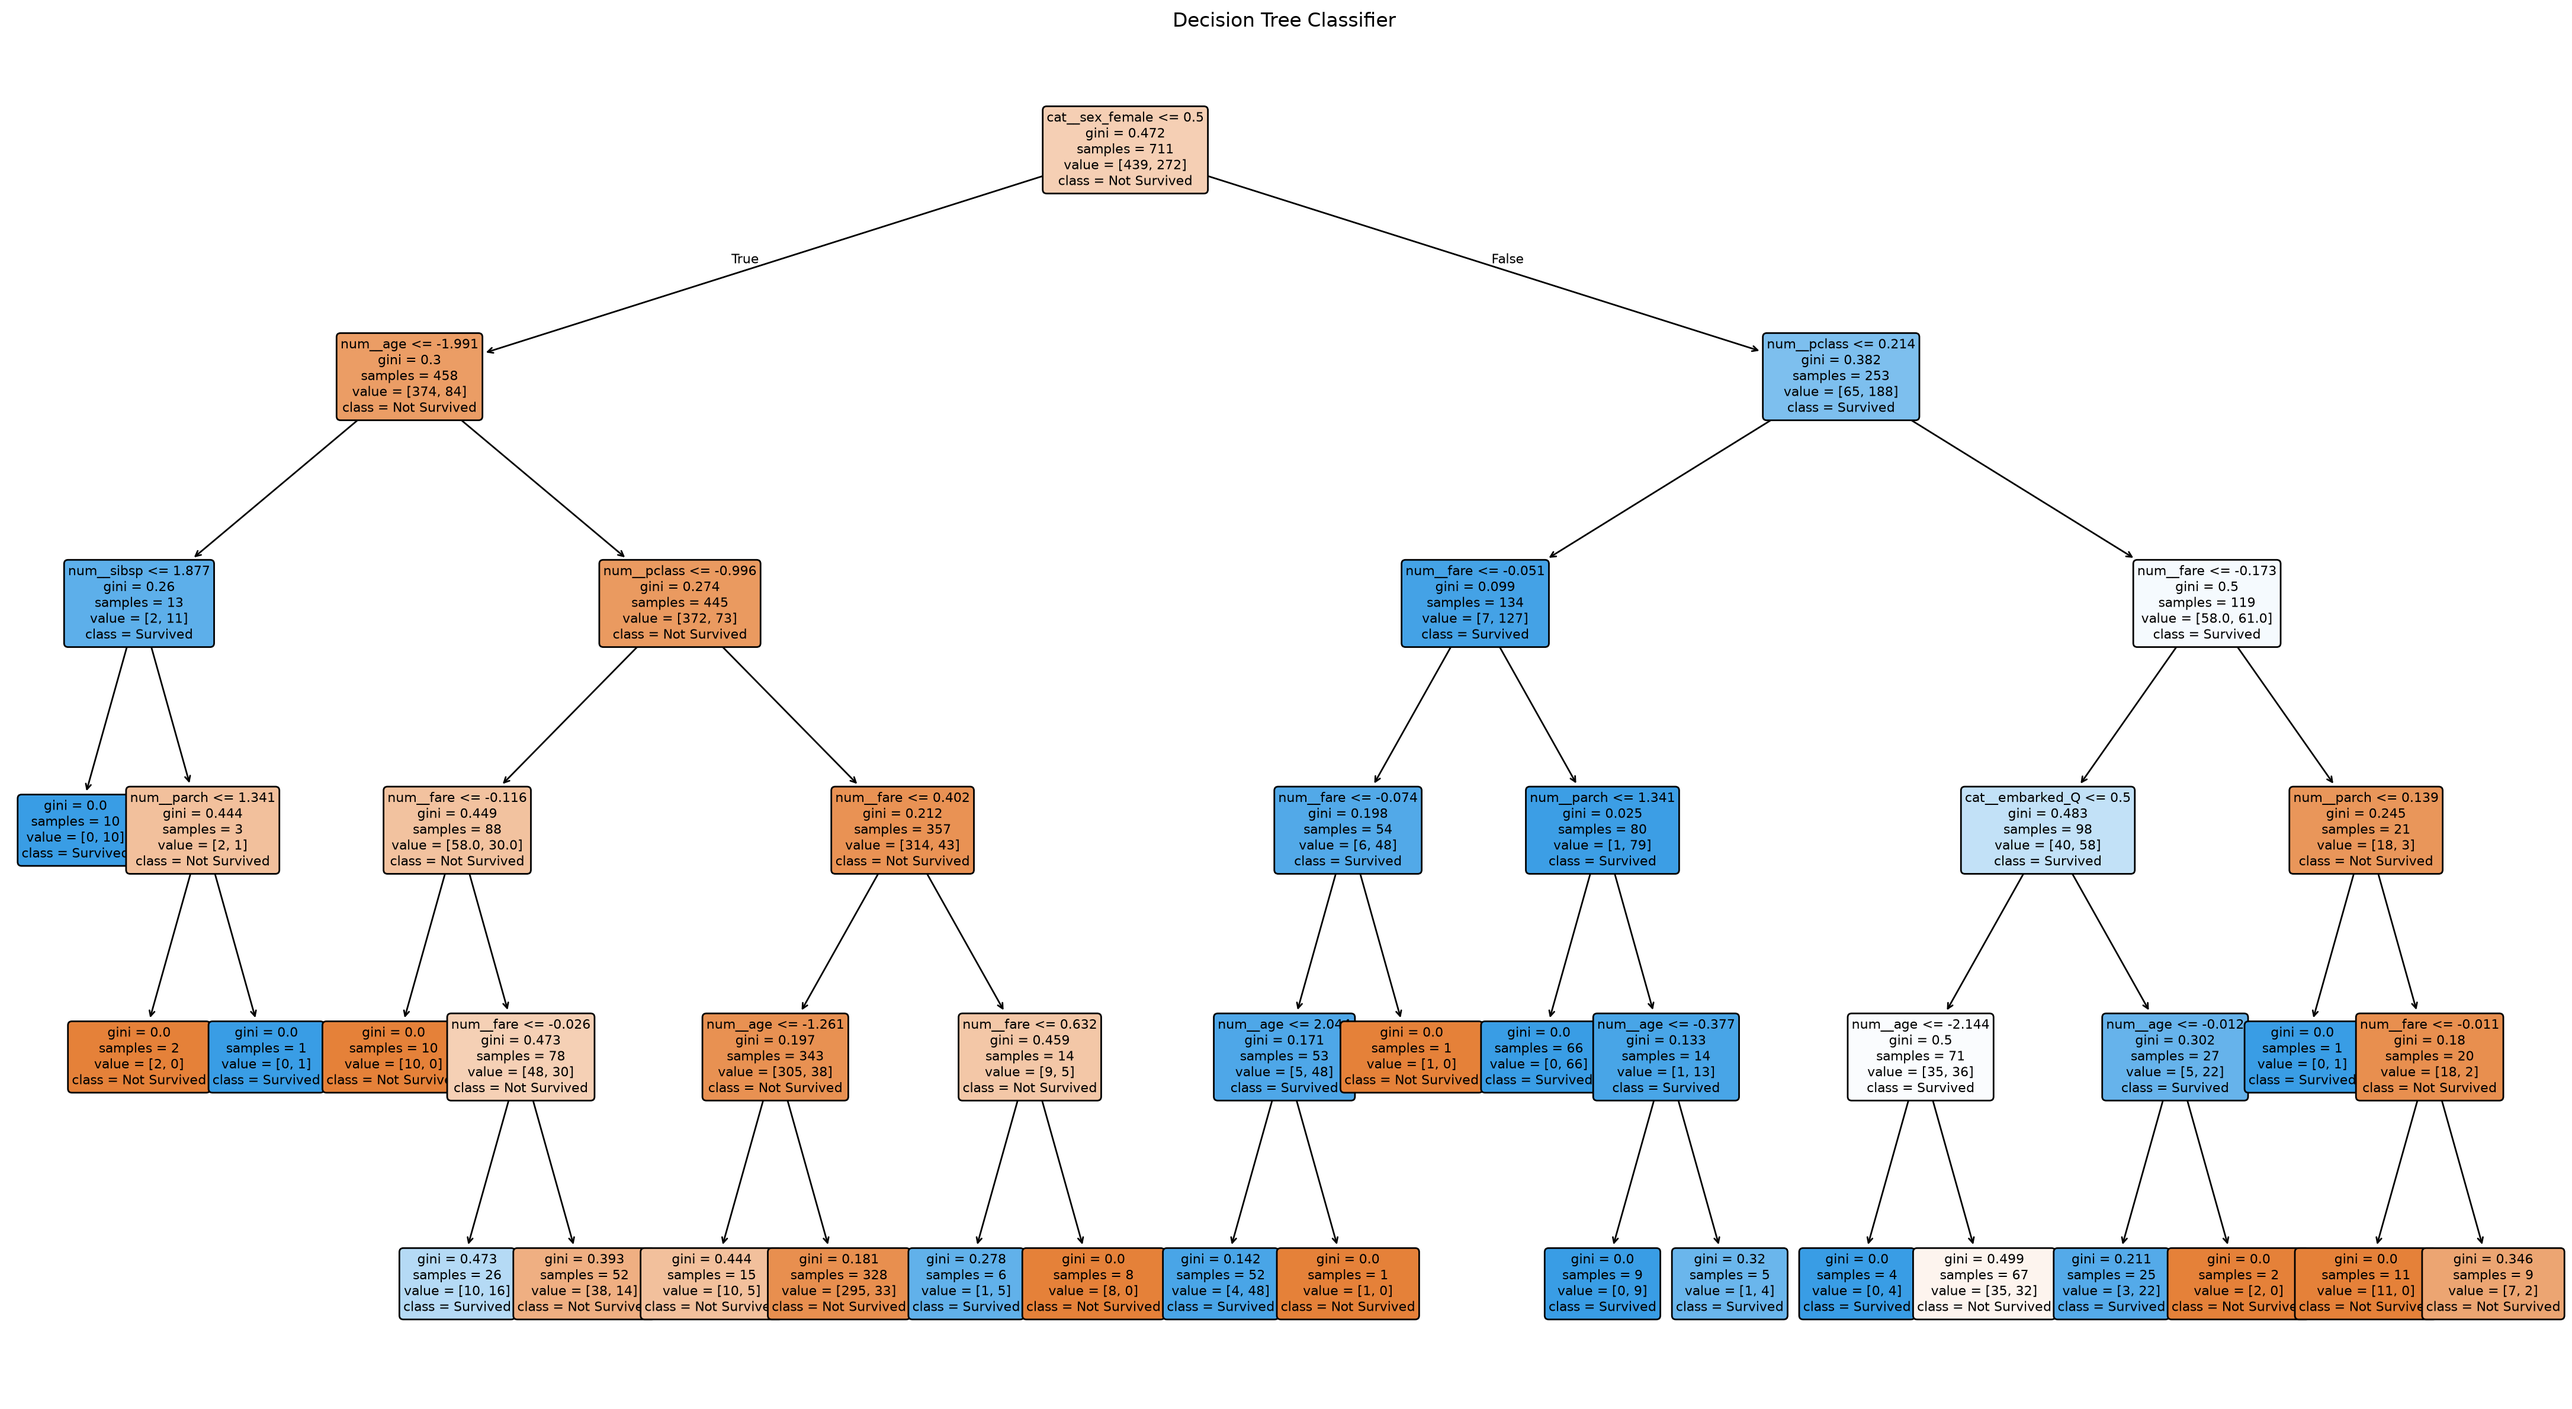
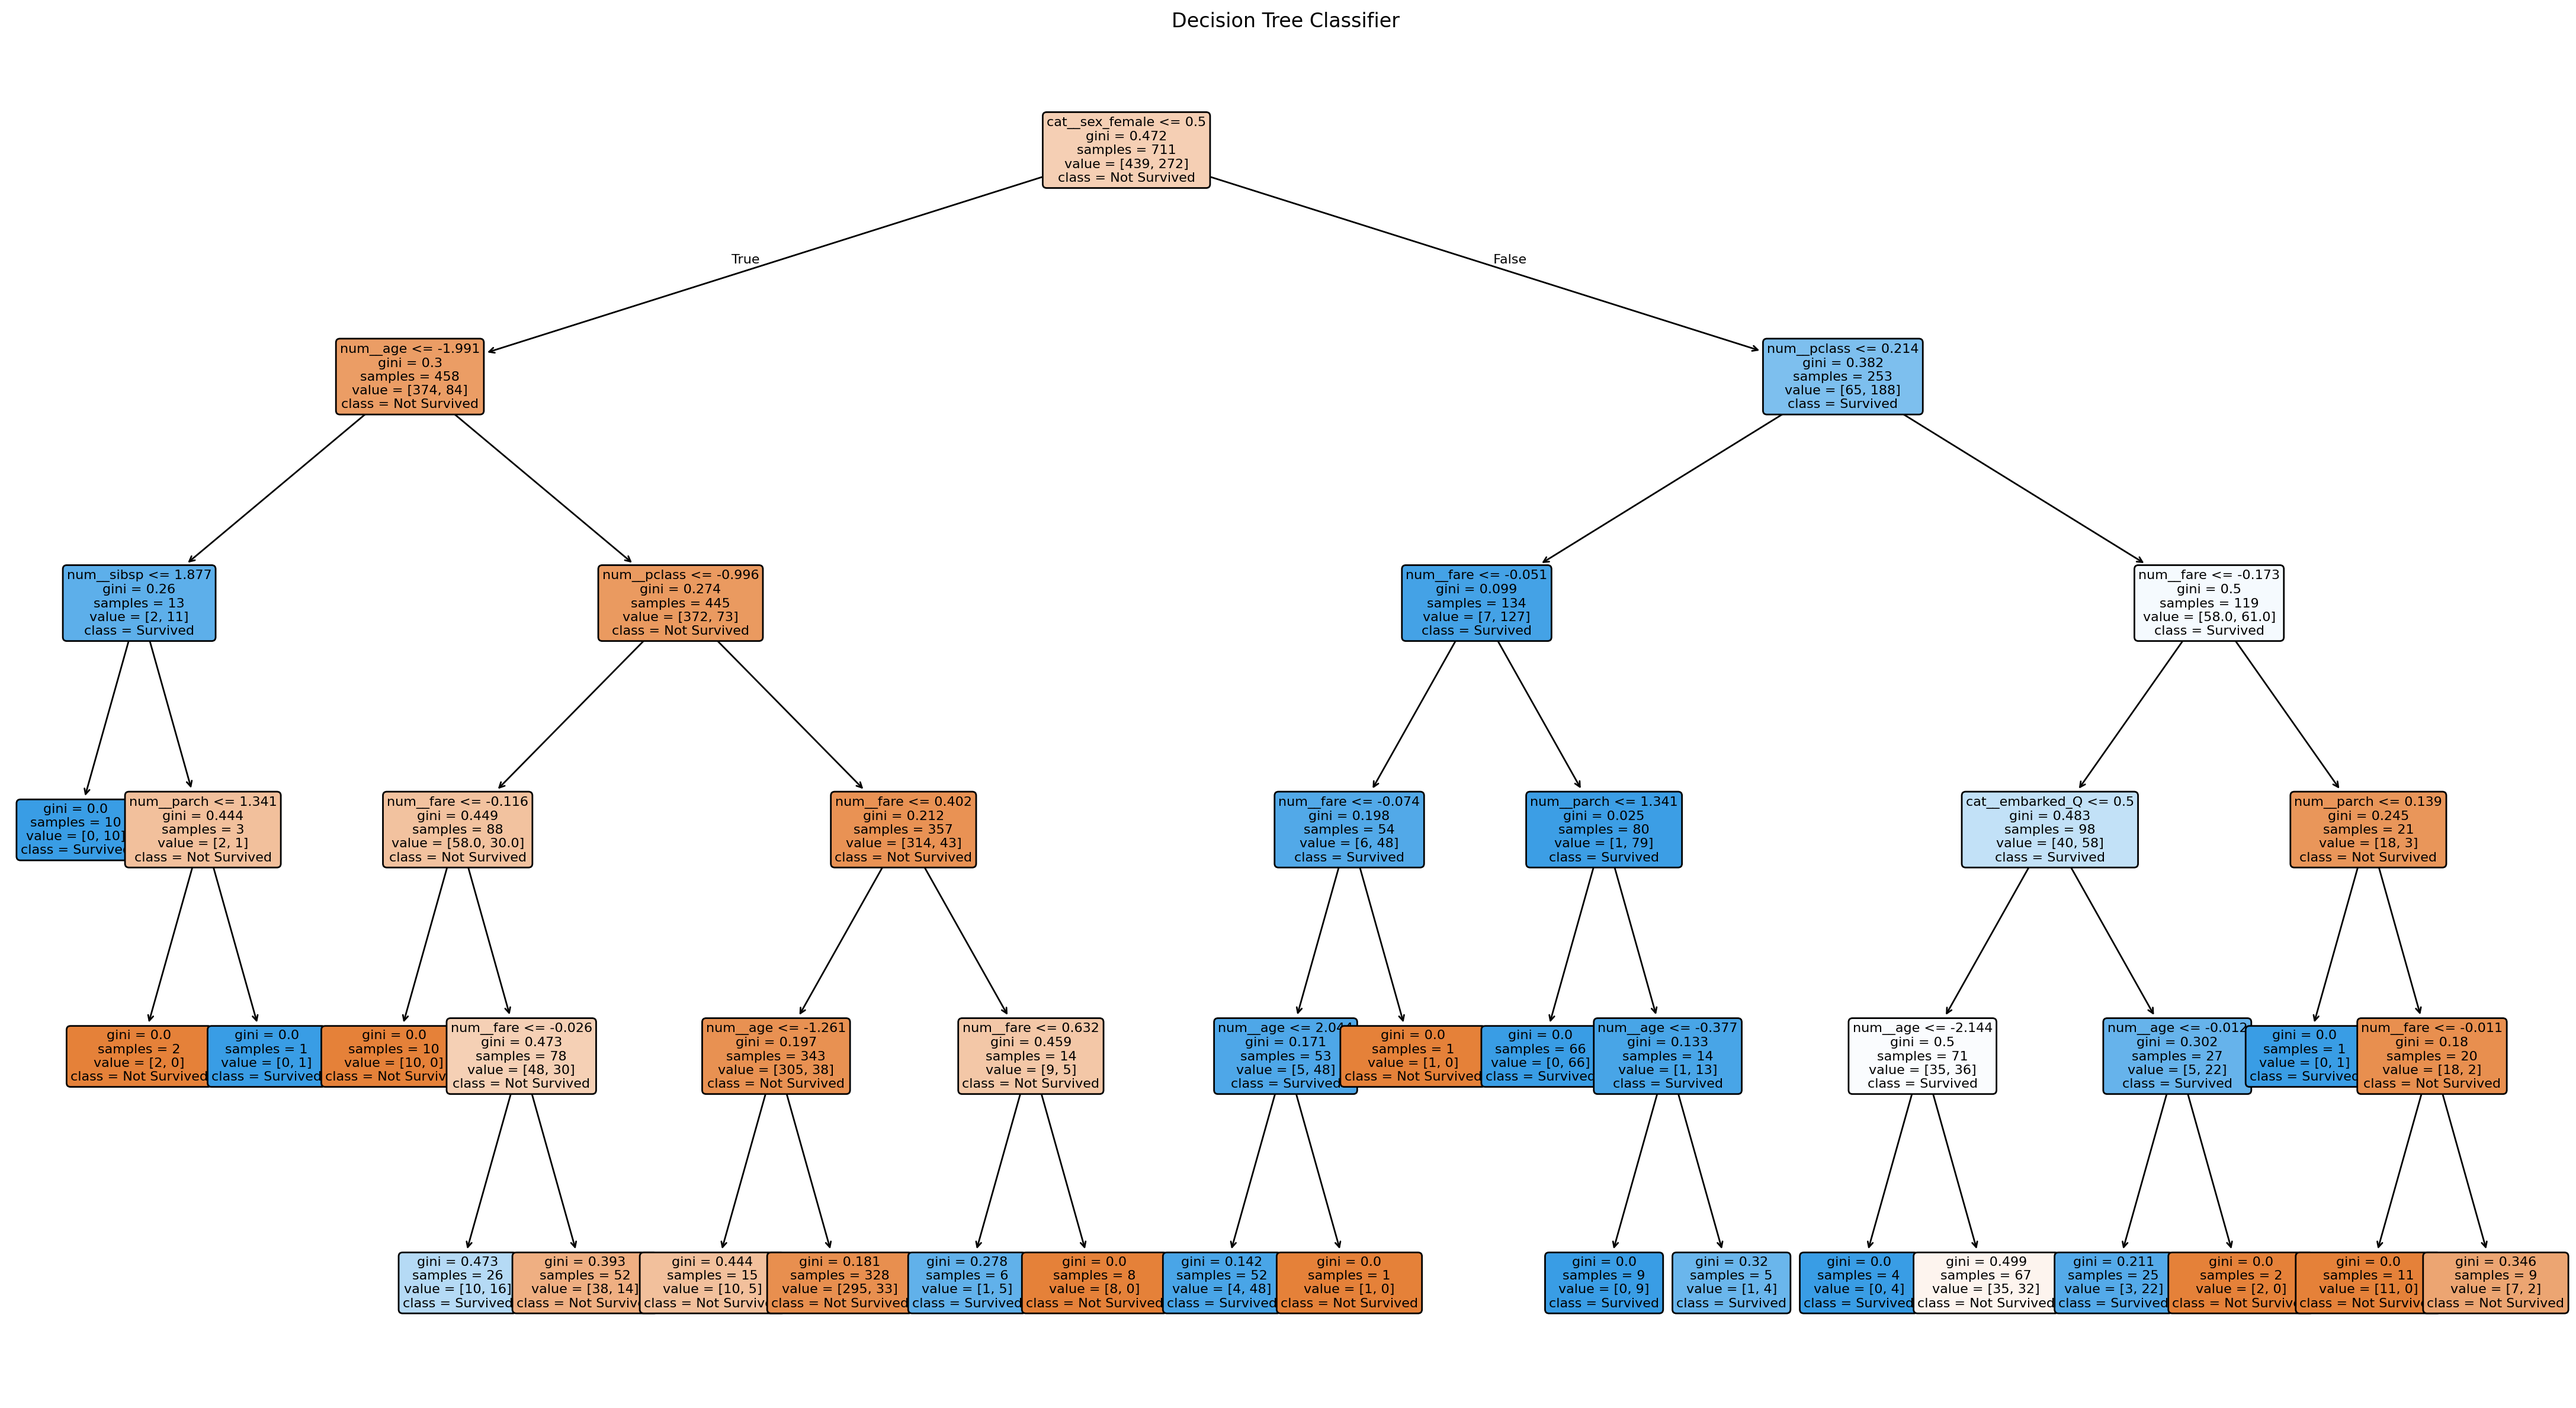
Complete Module 2 SMOTE and dependency updates

diff --git a/analytics/02_modeling.py b/analytics/02_modeling.py
@@ -5,7 +5,8 @@
 import pandas as pd
 
 from sklearn.model_selection import train_test_split
-
+from imblearn.pipeline import Pipeline as ImbPipeline
+from imblearn.over_sampling import SMOTE
 # =====================================================================
 # LOAD CLEANED DATA
 # =====================================================================
@@ -499,6 +500,73 @@ balanced_logistic_pipeline = Pipeline(
 
 balanced_logistic_pipeline.fit(X_train, y_train)
 
+# ---------------------------------------------------------------------
+# SMOTE Logistic Regression
+# ---------------------------------------------------------------------
+
+smote_logistic_pipeline = ImbPipeline(
+    steps=[
+        ("preprocessor", preprocessor),
+        (
+            "smote",
+            SMOTE(
+                random_state=42
+            )
+        ),
+        (
+            "classifier",
+            LogisticRegression(
+                max_iter=1000,
+                random_state=42
+            )
+        )
+    ]
+)
+
+smote_logistic_pipeline.fit(X_train, y_train)
+
+smote_predictions = smote_logistic_pipeline.predict(X_test)
+
+smote_precision = precision_score(
+    y_test,
+    smote_predictions,
+    zero_division=0
+)
+
+smote_recall = recall_score(
+    y_test,
+    smote_predictions,
+    zero_division=0
+)
+
+smote_f1 = f1_score(
+    y_test,
+    smote_predictions,
+    zero_division=0
+)
+
+smote_accuracy = accuracy_score(
+    y_test,
+    smote_predictions
+)
+
+smote_probability = smote_logistic_pipeline.predict_proba(X_test)[:, 1]
+
+smote_auc = roc_auc_score(
+    y_test,
+    smote_probability
+)
+
+print("\n" + "-" * 60)
+print("SMOTE LOGISTIC REGRESSION")
+print("-" * 60)
+
+print(f"\nAccuracy : {smote_accuracy:.4f}")
+print(f"Precision: {smote_precision:.4f}")
+print(f"Recall   : {smote_recall:.4f}")
+print(f"F1 Score : {smote_f1:.4f}")
+print(f"ROC-AUC  : {smote_auc:.4f}")
+
 balanced_predictions = balanced_logistic_pipeline.predict(X_test)
 
 balanced_precision = precision_score(
@@ -567,7 +635,14 @@ imbalance_results = pd.DataFrame([
         "Precision": balanced_precision,
         "Recall": balanced_recall,
         "F1": balanced_f1
-    }
+    },
+    {
+    "Model": "SMOTE Logistic Regression",
+    "Accuracy": smote_accuracy,
+    "Precision": smote_precision,
+    "Recall": smote_recall,
+    "F1": smote_f1
+}
 ])
 
 print("\n" + "=" * 70)

diff --git a/analytics/README.md b/analytics/README.md
@@ -318,33 +318,87 @@ Tuned Random Forest	0.8146	0.7869	0.7059	0.7442	0.8283
 ROC curves are saved as:
 analytics/charts/roc_curves.png
 
+
 ## 15. Class Imbalance Analysis
+
 The training dataset contains:
+
 Not Survived = 61.74%
+
 Survived     = 38.26%
-A majority-class baseline was created.
-Majority-Class Baseline
+
+Because the target classes are moderately imbalanced, three imbalance-handling
+approaches were evaluated in addition to the regular Logistic Regression model.
+
+### Majority-Class Baseline
+
+A majority-class baseline was created by always predicting the majority class.
+
 Accuracy  = 0.6180
 Precision = 0.0000
 Recall    = 0.0000
 F1 Score  = 0.0000
+
 The baseline demonstrates the performance obtained by always predicting
 the majority class.
-Balanced Logistic Regression
+
+### Balanced Logistic Regression
+
 A Logistic Regression model using:
+
 class_weight="balanced"
+
 was also trained.
+
 Results:
+
 Accuracy  = 0.7921
 Precision = 0.7183
 Recall    = 0.7500
 F1 Score  = 0.7338
+
 Compared with the regular Logistic Regression, the balanced model increases
 recall from 0.6912 to 0.7500 while reducing precision from 0.7833 to
 0.7183. The F1 score remains very similar, changing from 0.7344 to 0.7338.
+
 This demonstrates the trade-off created by giving additional weight to the
 minority class.
+
+### SMOTE Logistic Regression
+
+Synthetic Minority Over-sampling Technique (SMOTE) was also evaluated.
+
+SMOTE was applied **only to the training data** inside an imbalanced-learn
+pipeline:
+
+1. Training data preprocessing
+2. SMOTE oversampling
+3. Logistic Regression
+
+The test set was never oversampled, ensuring that evaluation was performed
+on the original unseen test distribution.
+
+Results:
+
+Accuracy  = 0.7978
+Precision = 0.7353
+Recall    = 0.7353
+F1 Score  = 0.7353
+ROC-AUC   = 0.8667
+
+The SMOTE experiment demonstrates how synthetic minority samples can be
+generated from the training fold while keeping the test set untouched.
+
+### Imbalance Comparison
+
+The three imbalance strategies required for comparison are therefore:
+
+1. Majority-Class Baseline
+2. Logistic Regression with `class_weight="balanced"`
+3. Logistic Regression with SMOTE applied only to the training data
+
 Comparison file:
+
 analytics/model/class_imbalance_comparison.csv
 
 ## 16. Random Forest GridSearchCV
@@ -415,20 +469,21 @@ Random Forest	0.7978	0.7581	0.6912	0.7231	0.8212
 Tuned Random Forest	0.8146	0.7869	0.7059	0.7442	0.8283
 
 
+
 Regression
 Model	MAE	RMSE	R²	Adjusted R²
 Multivariate Linear Regression	21.1386	41.7465	0.3468	0.3118
 
 
-## 20. Final Classifier Recommendation
-Based on the measured test-set results, the Tuned Random Forest is selected
-as the final classifier for this project. It achieved an accuracy of
-0.8146, precision of 0.7869, recall of 0.7059, and F1 score of 0.7442.
-Logistic Regression produced the highest ROC-AUC of 0.8610 and a similar
-F1 score of 0.7344, making it a strong alternative when probability
-discrimination is emphasized. The Tuned Random Forest was selected for the
-saved deployment pipeline because its test accuracy and F1 score were
-slightly higher than the other evaluated classifiers.
+## 20. Final Selected Classifier
+
+Based on the measured test-set results and the project's deployment
+requirement, the Tuned Random Forest is used as the final classifier for
+the saved pipeline. It achieved an accuracy of 0.8146, precision of
+0.7869, recall of 0.7059, and F1 score of 0.7442.
+
+Logistic Regression produced the highest ROC-AUC of 0.8610 at 0.8610,
+while the Tuned Random Forest produced an ROC-AUC of 0.8283.
 
 ## 21. Pipeline Saving and Reloading
 The complete fitted preprocessing and Tuned Random Forest pipeline is
